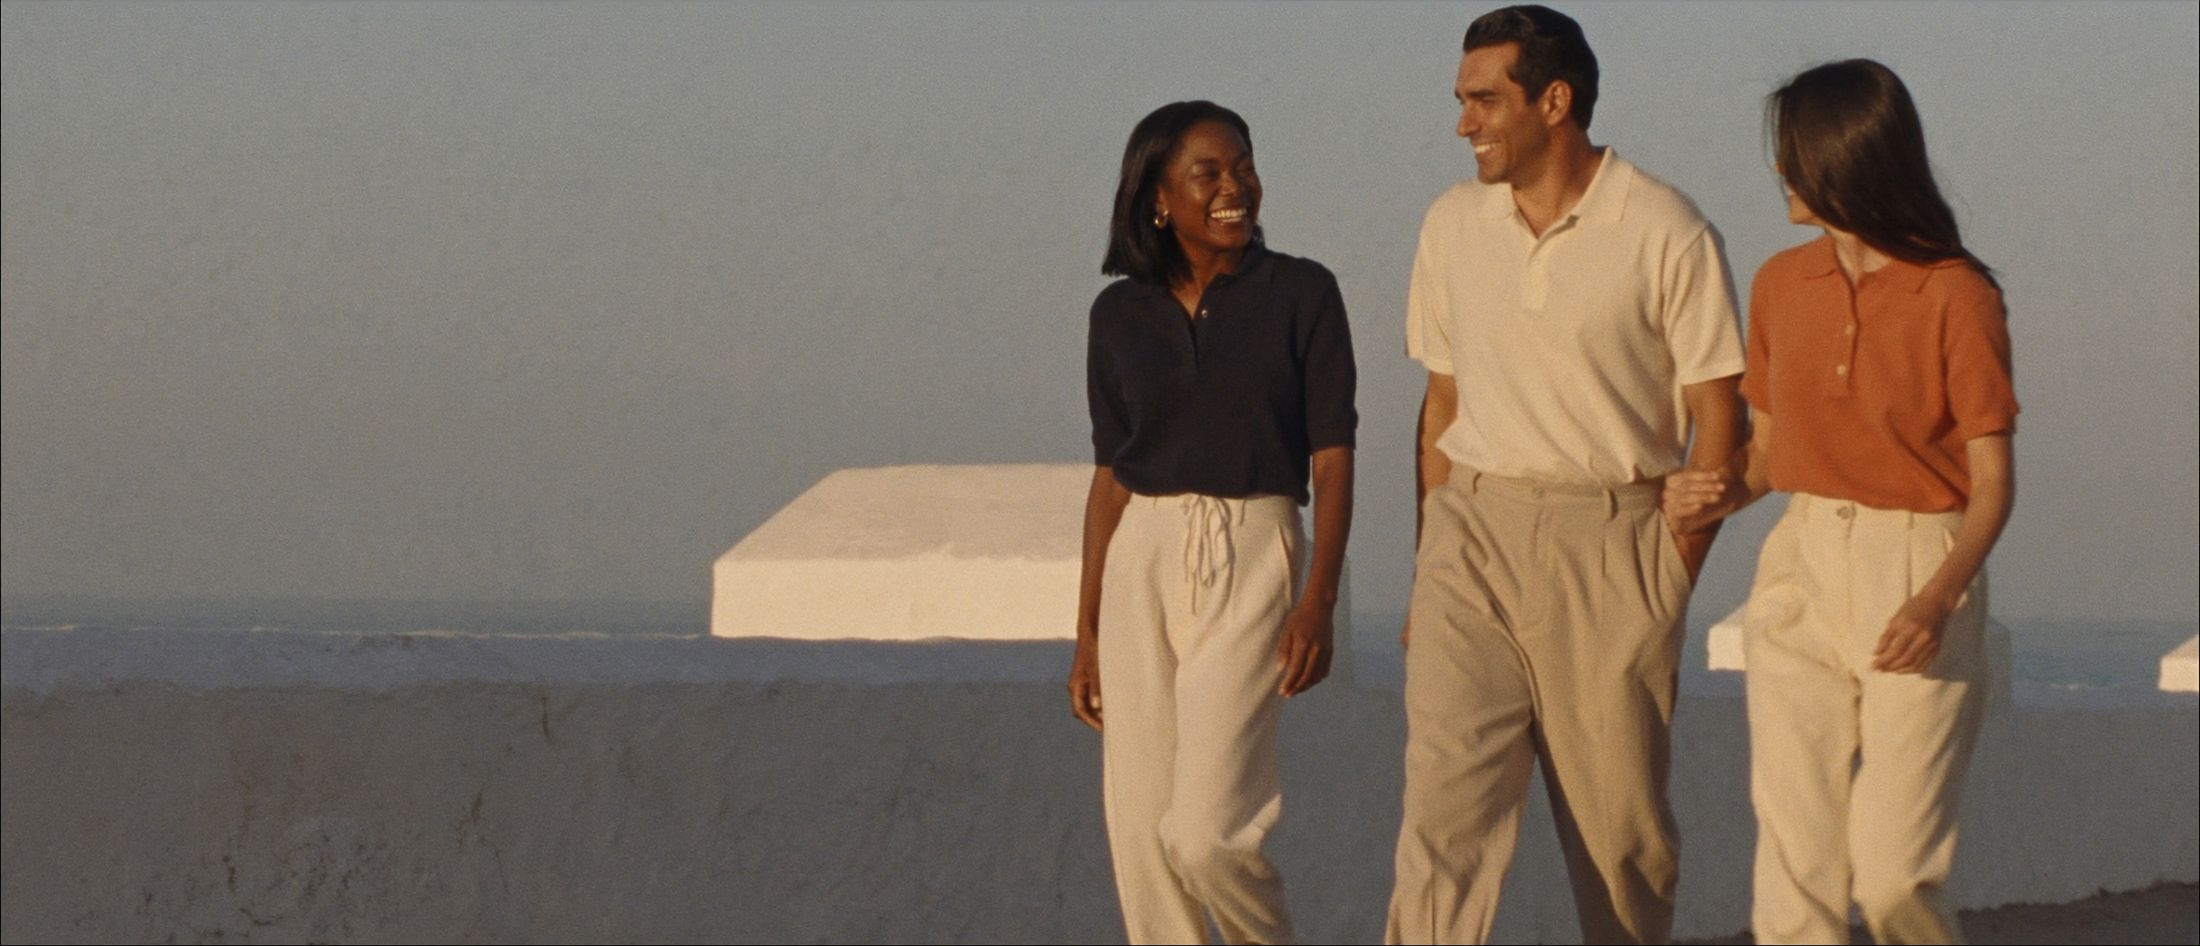
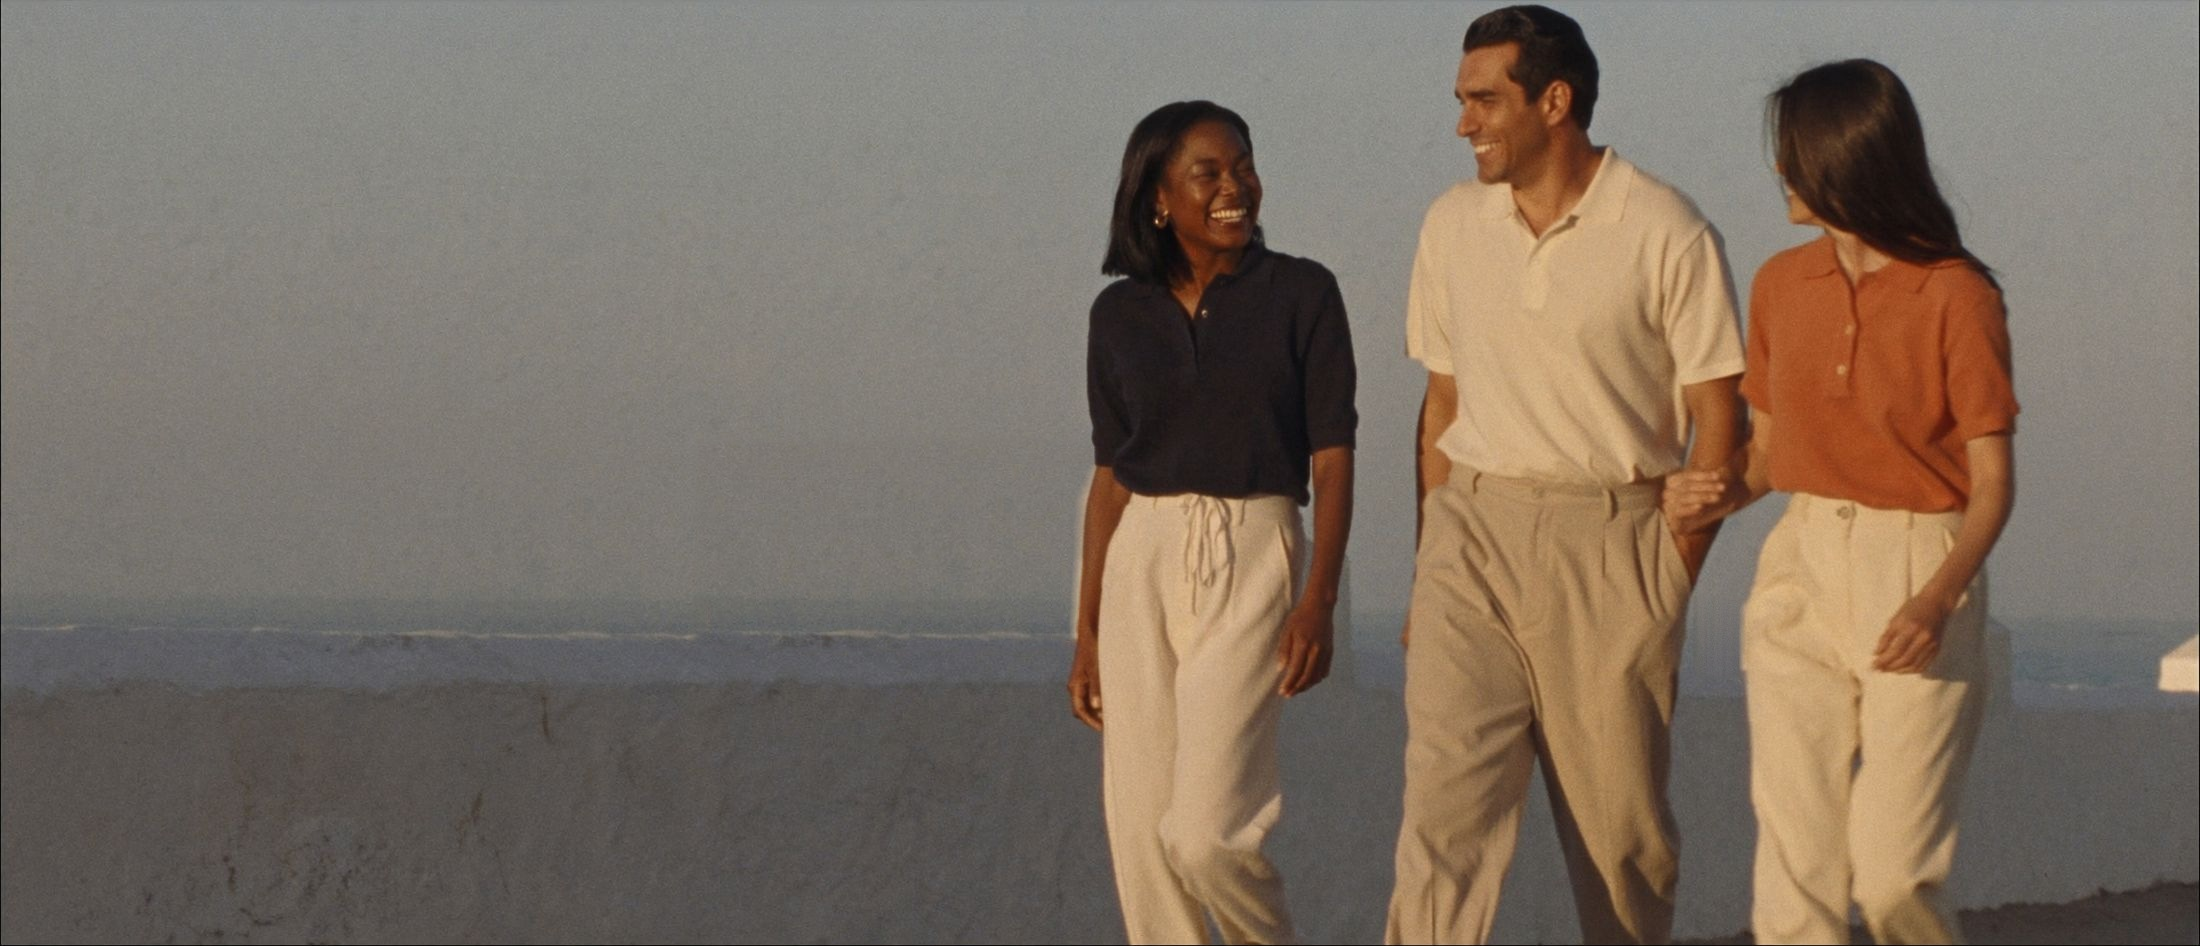
Marketing imagery: retouch homepage hero + two new editorial images for /stories
- Homepage hero: removed the two floating whitewashed blocks (the AI
  tell beside the woman in navy, and its smaller cousin between the
  other two figures). Patched programmatically with donor strips and a
  gradient fill matched to the haze/sea/wall bands, silhouette-aware so
  sleeves, arms and hands stayed untouched.
- /stories gains two new generated editorial images in the house look
  (warm Atlantic light, 35mm grain): a research wall of pinned swatches
  and notes for the 'Research keeps its receipts' interlude (replacing
  the reused wall.jpg), and a garment rail wheeled down a whitewashed
  coastal street at golden hour, closing the switcher story.

Claude-Session: https://claude.ai/code/session_01VKXBcM1UiH6wTzg95iFx4Y

Changed region(s): [[0.3091, 0.4905, 0.4945, 0.7051], [0.7727, 0.6438, 0.8036, 0.7051]]

diff --git a/src/app/verto/VertoJourneys.tsx b/src/app/verto/VertoJourneys.tsx
@@ -378,8 +378,8 @@ export function VertoJourneys() {
         <div className="md:order-2">
           <Reveal>
             <ParallaxImage
-              src="/verto/wall.jpg"
-              alt="A studio wall of pinned research, swatches and photographs"
+              src="/verto/research.jpg"
+              alt="A studio wall of pinned research — swatches, tearsheets and handwritten notes in raking afternoon light"
               speed={0.3}
               className="aspect-[3/4] max-h-[70vh]"
             />
@@ -431,13 +431,23 @@ export function VertoJourneys() {
             </p>
           </Reveal>
           <StoryTimeline beats={SWITCHER_BEATS} dark />
-          <Reveal delay={200}>
-            <p className="prose-editorial mt-10 max-w-2xl text-lg !text-chalk/80">
-              Sunday she did nothing, because nothing needed her. The catalog, the makers, the
-              season, the domain — all of it moved; none of it broke. The only thing she left
-              behind was the spreadsheet.
-            </p>
-          </Reveal>
+          <div className="mt-12 grid items-center gap-10 md:grid-cols-2">
+            <Reveal delay={200}>
+              <p className="prose-editorial max-w-2xl text-lg !text-chalk/80">
+                Sunday she did nothing, because nothing needed her. The catalog, the makers, the
+                season, the domain — all of it moved; none of it broke. The only thing she left
+                behind was the spreadsheet.
+              </p>
+            </Reveal>
+            <Reveal delay={300}>
+              <ParallaxImage
+                src="/verto/move.jpg"
+                alt="A garment rail of cream linen wheeled down a whitewashed coastal street at golden hour"
+                speed={0.25}
+                className="aspect-[3/4] max-h-[60vh]"
+              />
+            </Reveal>
+          </div>
         </div>
       </section>
 